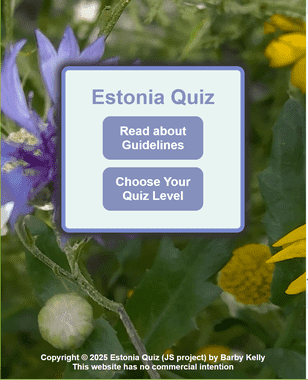
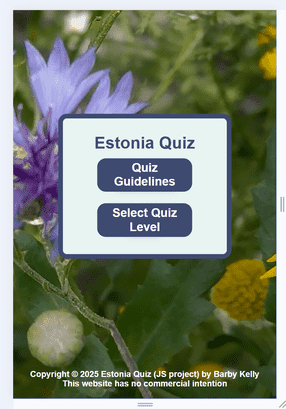
Updated images, added report about Lighthouse testing

diff --git a/assets/css/style.css b/assets/css/style.css
@@ -282,7 +282,7 @@ footer > p {
 /* Styling for Error Pages */
 
 .error_page_title {
-    color: #6495ED;
+    color: #394A6F;
     text-align: center;
     padding: 10px;
 }

diff --git a/README.md b/README.md
@@ -318,7 +318,7 @@ FAVICON
       - 'Timer: 0' is displayed
       - Pop up appears: "barbykelly.github.io says 'Time is up!'", with "OK" button to click on, to close the pop-up:
 
-        ![Pop up "Time is Up!"](assets/images/readmeimg/pop_up_time_is_up_opt_100.png)
+        ![Pop up "Time is Up!"](assets/images/readmeimg/pop_up_time_is_up_opt_50.png)
 
       - 'Question x/5' is displayed on the left of the Timer
       - Question and answer options are displayed
@@ -393,7 +393,7 @@ Developer used these sites/apps to create Estonia Quiz:
 
 - Tested with Google Dev Tools, Lighthouse:
 
-  ![Lighthouse test](assets/images/readmeimg/lighthouse_test_opt_50.png)
+  ![Lighthouse test](assets/images/readmeimg/lighthouse_test_final_opt_50.png)
 
 [Back to top](#contents)
 
@@ -446,7 +446,7 @@ Developer used these sites/apps to create Estonia Quiz:
 | Tested Item | Expected Outcome                                                      | Outcome     |
 | ----------- | --------------------------------------------------------------------- | ------------|
 | Home        | Background image displayed behind the container                       | as expected |
-|             | Container is placed mainly closer to top of the screen                | as expected |
+|             | Container is placed near centre of the screen                         | as expected |
 |             | Background-color of the container is #E6F4F1                        | as expected |
 |             | Header displayed on top of the container                              | as expected |
 |             | 'Quiz Guidelines' button displayed below Header                       | as expected |
@@ -479,7 +479,7 @@ Developer used these sites/apps to create Estonia Quiz:
 | Tested Item            | Expected Outcome                                                     | Outcome     |
 | ---------------------- | -------------------------------------------------------------------- | ----------- |
 | Quiz Guidelines Button | Button is clickable                                                  | as expected |
-|                        | Color of the botton is #394A6F                                     | as expected |
+|                        | Color of the button is #394A6F                                     | as expected |
 |                        | Text-color is #FFFFFF                                              | as expected |
 |                        | Button is inside the container                                       | as expected |
 |                        | 'Quiz Guidelines' button is displayed below 'Estonia Quiz', and      | as expected |
@@ -498,7 +498,7 @@ Developer used these sites/apps to create Estonia Quiz:
 | Tested Item       | Expected Outcome                                                      | Outcome     |
 | ----------------- | --------------------------------------------------------------------- | ------------|
 | CSS               | Background image is displayed behind the container                    | as expected |
-|                   | Container is usually placed closer to top of the screen               | as expected |
+|                   | Container is displayed near centre of the screen                      | as expected |
 |                   | Guidelines heading and list are displayed inside the container        | as expected |
 |                   | 'Guidelines' heading is centered above guidelines                     | as expected |
 |                   | List of guidelines displayed                                          | as expected |
@@ -524,7 +524,7 @@ Developer used these sites/apps to create Estonia Quiz:
 | Tested Item                | Expected Outcome                                                    | Outcome     |
 | -------------------------- | ------------------------------------------------------------------- | ----------- |
 | 'Select Quiz Level' Button | Button is clickable                                                 | as expected |
-|                            | Color of the botton is #394A6F                                    | as expected |
+|                            | Color of the button is #394A6F                                    | as expected |
 |                            | Text-color is #FFFFFF                                             | as expected |
 |                            | Button is inside the container                                      | as expected |
 |                            | 'Select Quiz Level' button is displayed below 'Estonia Quiz', and   | as expected |
@@ -547,7 +547,7 @@ Developer used these sites/apps to create Estonia Quiz:
 |                   |                                                                                 |             |
 | Styling           | Background image displayed behind the container                                 | as expected |
 |                   | Color of the heading and quiz levels                                            | as expected |
-|                   | Container is usually placed closer to top of the screen                         | as expected |
+|                   | Container is usually displayed close to the centre of the screen                | as expected |
 |                   | Container's background color                                                    | as expected |
 |                   | Border color of the container                                                   | as expected |
 |                   | 'Select Quiz Level' heading is displayed top centre of the container            | as expected |
@@ -1068,7 +1068,7 @@ Developer used these sites/apps to create Estonia Quiz:
 
 - Developer had not tested quiz with zero score. Grateful to Matthew J for finding and highlighting this bug.
 
-- Developer recreated 'underfined score: 0 error' to inspect it:
+- Developer recreated 'undefined score: 0 error' to inspect it:
 
   ![Undefined, score:0 error ](assets/images/readmeimg/undefined_score.png)
 
@@ -1182,11 +1182,12 @@ Developer used these sites/apps to create Estonia Quiz:
   and Final Score once again reflected the actual score
 
 
-## Container position
+## Container Position
 
-- Developer tried a few times to fix Container position, to have it closer to center,
+- Developer tried a few times to fix Container's position, to have it closer to center,
   only to face more errors, as previous Container styling did not match flex styling eg
   close_modal buttons ended up being outside of the Container, as they had still
+
   ```
   position: absolute;
   ```
@@ -1195,6 +1196,43 @@ Developer used these sites/apps to create Estonia Quiz:
 
 - With Tutor Rebecca's guidance Developer managed to position Container closer to center of the page,
   and adjust styling so that close_modals were back inside Container
+
+[Back to top](#contents)
+
+[Back to Fixed Bugs](#fixed-bugs)
+
+## Color Contrast
+
+- Previous Lighthouse test highlighted contrast issues:
+
+  ![Contrast Suggestions](assets/images/readmeimg/contrast_suggestions.png)
+
+- Developer checked out link in Lighthouse:
+
+  [Deque University](https://dequeuniversity.com/rules/axe/4.10/color-contrast)
+
+- And she tested colors and background-colors of Estonia Quiz with [Deque University](https://dequeuniversity.com/rules/axe/4.10/color-contrast):
+
+  ![Color Contrast test](assets/images/readmeimg/deque_color_contrast_at_the_start_opt_50.png)
+
+- Developer adjusted the colors, to see which combination would pass,
+  while keeping background-color the same:
+
+  ![Color Contrast that was ok](assets/images/readmeimg/suitable_color_contrast.png)
+
+- Developer updated colors of Estonia Quiz, based on this Color Contrast Test
+
+- She did another Lighthouse test with new color contrast, and passed all with 100.
+
+- Developer learned the importance of color contrast, how big impact it can have
+
+- Estonia Quiz before color contrast fix:
+
+  ![Previous color combination](assets/images/readmeimg/previous_color_combination.png)
+
+- Estonia Quiz after color contrast fix:
+
+  ![Color Contrast after fix](assets/images/readmeimg/color_contrast_after_fix.png)
 
 [Back to top](#contents)
 
@@ -1264,14 +1302,16 @@ Developer used these sites/apps to create Estonia Quiz:
 
 - Favicon created using [favicon converter](https://favicon.io/favicon-converter/)
 
-- These 3 lines of code, for favicon, were copied from [Code Institute's 'Love Running' Walk-Through](https://github.com/Code-Institute-Solutions/Love-Running-Solutions)
-- ```
+- These 3 lines of code, for favicon, were copied from [Code Institute's 'Love Running' Walk-Through](https://github.com/Code-Institute-Solutions/Love-Running-Solutions):
+
+  ```
   <link rel="apple-touch-icon" sizes="180x180" href="assets/favicon/apple-touch-icon.png">
   <link rel="icon" type="image/png" sizes="32x32" href="assets/favicon/favicon-32x32.png">
   <link rel="icon" type="image/png" sizes="16x16" href="assets/favicon/favicon-16x16.png">
   ```
 
 - This line of code:
+
   ```
   <link rel="manifest" href="/site.webmanifest"> 
   ```
